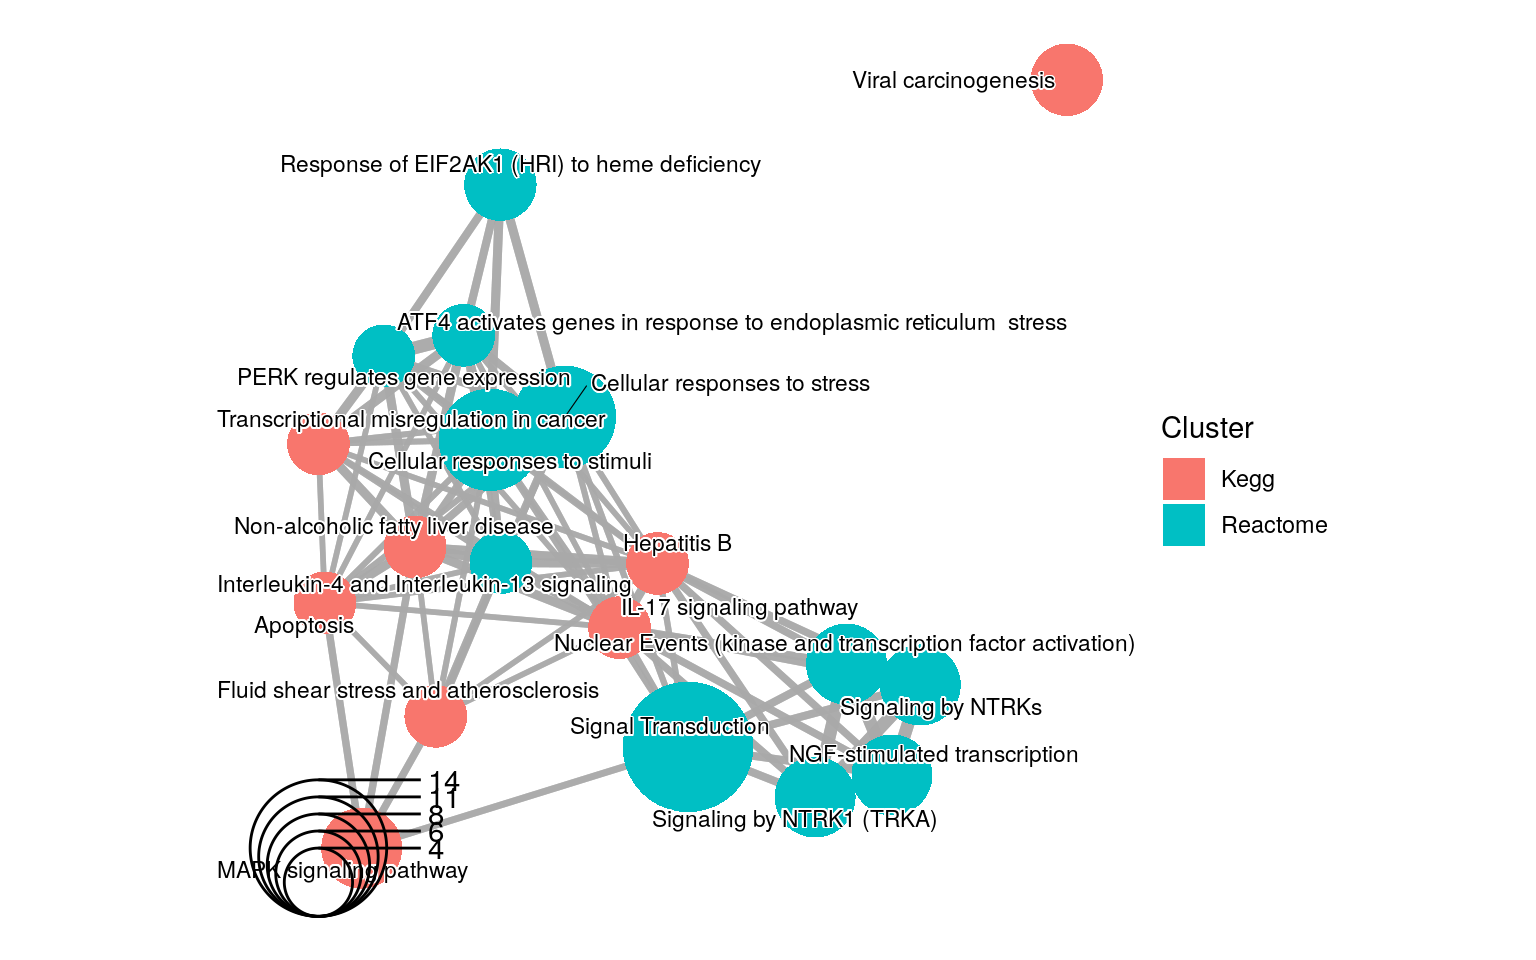
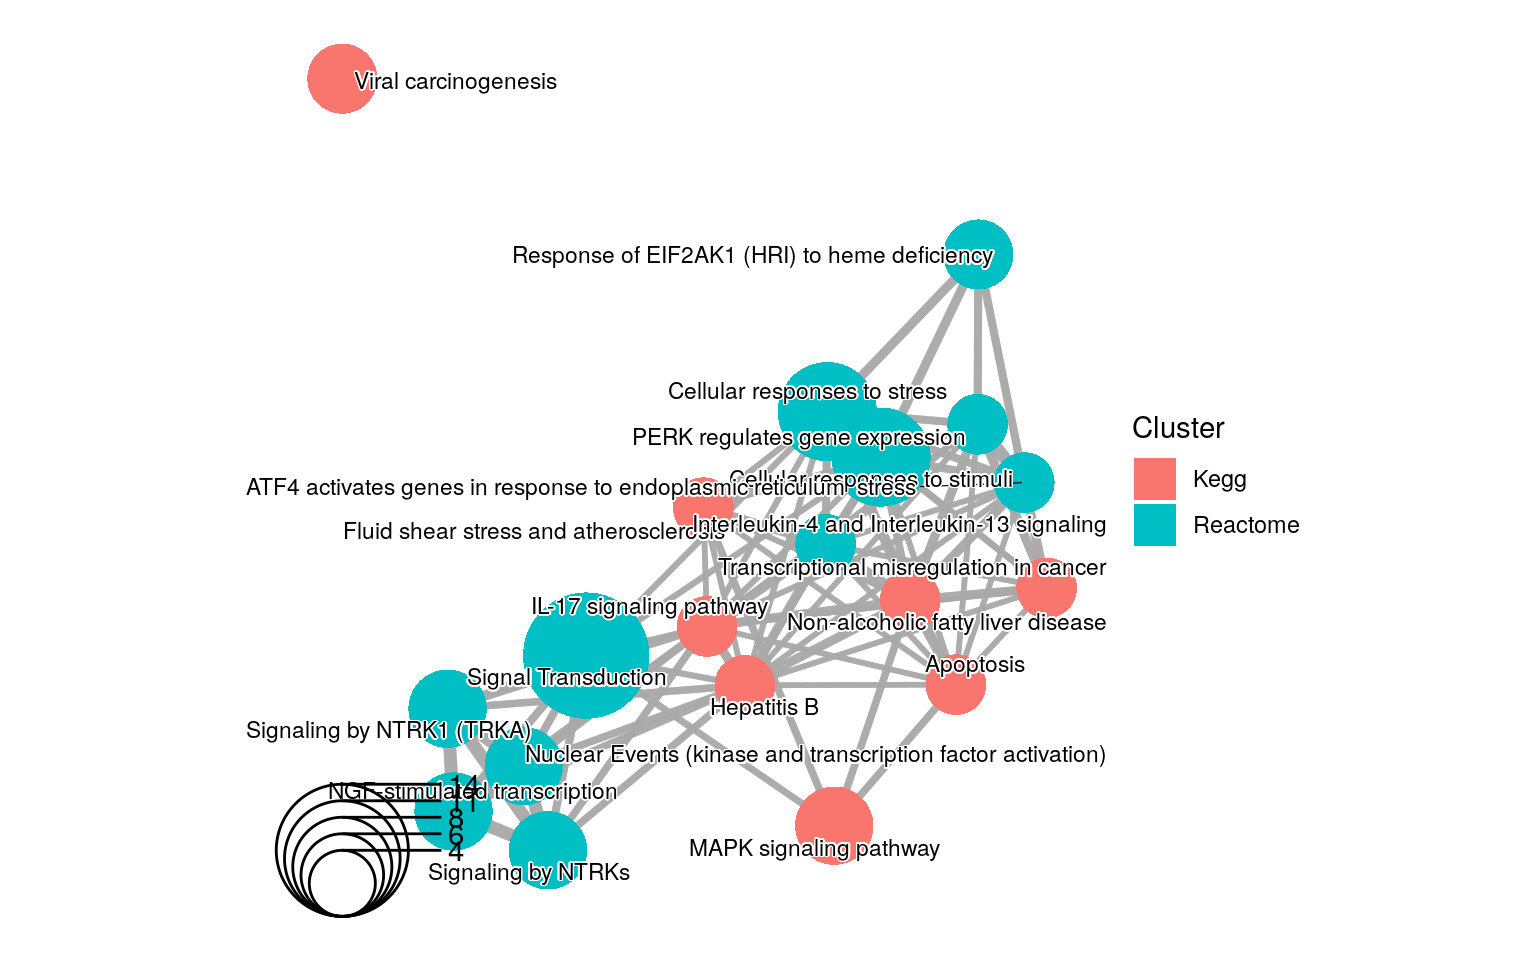
Deploying to gh-pages from @ adeschen/enrichViewNet@29ff2cd89df713c1b318b5607aa68e03a2139e48 🚀

Changed region(s): [[0.125, 0.1562, 0.875, 0.9688], [0.1875, 0.0312, 0.375, 0.125], [0.5625, 0.0312, 0.7188, 0.125]]

diff --git a/articles/enrichViewNet.html b/articles/enrichViewNet.html
@@ -1106,7 +1106,7 @@ generate with multiple groups from one enrichment analysis. As an example,
 terms from different sources can be drawn in different colors.</p>
 <div class="sourceCode" id="cb27"><pre class="downlit sourceCode r">
 <code class="sourceCode R"><span><span class="co">## Set seed to ensure reproducible results</span></span>
-<span><span class="fu"><a href="https://rdrr.io/r/base/Random.html" class="external-link">set.seed</a></span><span class="op">(</span><span class="fl">2221</span><span class="op">)</span></span>
+<span><span class="fu"><a href="https://rdrr.io/r/base/Random.html" class="external-link">set.seed</a></span><span class="op">(</span><span class="fl">3221</span><span class="op">)</span></span>
 <span></span>
 <span><span class="co">## The dataset of functional enriched terms for one experiment:</span></span>
 <span><span class="co">## napabucasin treated and DMSO control expressing Rosa26 control vector</span></span>
@@ -1258,7 +1258,7 @@ Research Council of Canada (NSERCC): 155751-1501.</p>
 </h2>
 <p>Here is the output of sessionInfo() on the system on which this document
 was compiled:</p>
-<pre><code><span><span class="co">## R version 4.4.0 RC (2024-04-16 r86435)</span></span>
+<pre><code><span><span class="co">## R version 4.4.0 RC (2024-04-16 r86441)</span></span>
 <span><span class="co">## Platform: x86_64-pc-linux-gnu</span></span>
 <span><span class="co">## Running under: Ubuntu 22.04.4 LTS</span></span>
 <span><span class="co">## </span></span>

diff --git a/reference/demoGOST.html b/reference/demoGOST.html
@@ -111,7 +111,7 @@ used to test the <code><a href="createNetwork.html">createNetwork</a></code> fun
 <span class="r-msg co"><span class="r-pr">#&gt;</span> Unable to connect to Cytoscape. </span>
 <span class="r-msg co"><span class="r-pr">#&gt;</span> CX JSON file will be created.</span>
 <span class="r-msg co"><span class="r-pr">#&gt;</span> Preparing information for generating CX JSON file.</span>
-<span class="r-msg co"><span class="r-pr">#&gt;</span> CX JSON file "/tmp/Rtmpz6BU3J/Wikipathways_Demo.cx" has been created.</span>
+<span class="r-msg co"><span class="r-pr">#&gt;</span> CX JSON file "/tmp/Rtmppilc7e/Wikipathways_Demo.cx" has been created.</span>
 <span class="r-out co"><span class="r-pr">#&gt;</span> [1] TRUE</span>
 <span class="r-in"><span></span></span>
 <span class="r-in"><span></span></span>

diff --git a/reference/createNetwork.html b/reference/createNetwork.html
@@ -213,7 +213,7 @@ Default: "gprofilerNetwork_01.cx".</p></dd>
 <span class="r-msg co"><span class="r-pr">#&gt;</span> Unable to connect to Cytoscape. </span>
 <span class="r-msg co"><span class="r-pr">#&gt;</span> CX JSON file will be created.</span>
 <span class="r-msg co"><span class="r-pr">#&gt;</span> Preparing information for generating CX JSON file.</span>
-<span class="r-msg co"><span class="r-pr">#&gt;</span> CX JSON file "/tmp/Rtmpz6BU3J/KEGG_demo.cx" has been created.</span>
+<span class="r-msg co"><span class="r-pr">#&gt;</span> CX JSON file "/tmp/Rtmppilc7e/KEGG_demo.cx" has been created.</span>
 <span class="r-out co"><span class="r-pr">#&gt;</span> [1] TRUE</span>
 <span class="r-in"><span></span></span>
 <span class="r-in"><span></span></span>
